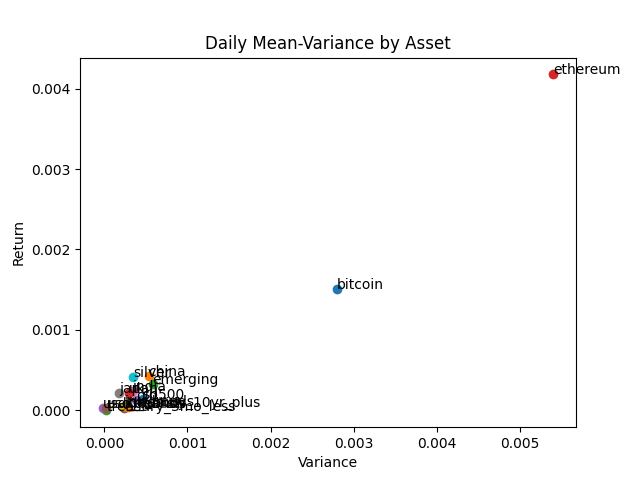
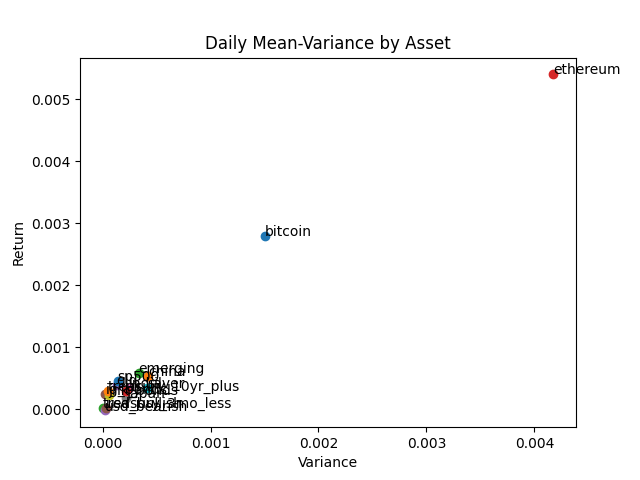
correct individual asset plot axes, find 2,3,5 and all assets portfolio with highest sharpe ratio and generate report

diff --git a/ranker.py b/ranker.py
@@ -3,6 +3,9 @@ import os
 import glob
 import numpy as np
 import matplotlib.pyplot as plt
+from functools import reduce
+import scipy.optimize as sco
+import itertools
 
 data_path = os.getcwd()+"/data"
 if os.path.exists(data_path) :   
@@ -29,7 +32,7 @@ sr_map = {}
 # risk-free rate assumed to be zero
 for asset_name in asset_names:
 	daily_ret = daily_ret_map[asset_name]
-	annual_sr = np.mean(daily_ret)/np.std(daily_ret)*(252**.5)
+	annual_sr = np.mean(daily_ret)/np.std(daily_ret)*np.sqrt(252)
 	sr_map[asset_name] = annual_sr
 
 print("Assets ranked by Sharpe Ratio from lowest to highest")
@@ -42,9 +45,84 @@ for asset_name in asset_names:
 	daily_ret = daily_ret_map[asset_name]
 	mean_ret = np.mean(daily_ret)
 	var_ret = np.var(daily_ret)
-	ax.scatter(mean_ret, var_ret)
-	ax.annotate(asset_name, (mean_ret, var_ret))
+	ax.scatter(var_ret, mean_ret)
+	ax.annotate(asset_name, (var_ret, mean_ret))
 plt.xlabel("Variance")
 plt.ylabel("Return")
 plt.title("Daily Mean-Variance by Asset")
 plt.show()
+
+df_from_each_file = []
+file_names = list(glob.iglob('*.csv'))
+num_assets = len(file_names)
+for file_name in file_names:
+	df = pd.read_csv(file_name)
+	asset_name = file_name[:-4]
+	df = df.rename({'Adj Close': asset_name}, axis=1)
+	df_from_each_file.append(df)
+df_full = reduce(lambda x, y: pd.merge(x, y, on = 'Date'), df_from_each_file)
+df_full = df_full.set_index('Date')
+df_full = df_full.pct_change().dropna()
+
+def neg_sharpe_ratio(weights, mean_returns, cov_matrix):
+	return -np.dot(weights, mean_returns)/np.sqrt(np.dot(weights.T, np.dot(cov_matrix, weights)))
+
+def plot_portfolios(num_in_set, num_assets, df_full):
+	all_sets = list(itertools.combinations(range(num_assets), num_in_set))
+	max_sr = -1.
+	max_sr_ind = []
+	max_sr_weights = []
+	max_sr_plt_index = []
+	opt_vars = []
+	opt_rets = []
+	for idx, ind_set in enumerate(all_sets):
+		df_set = df_full[df_full.columns[list(ind_set)]]
+		mean_returns = df_set.mean()
+		cov_matrix = df_set.cov()
+		args = (mean_returns, cov_matrix)
+		constraints = ({'type': 'eq', 'fun': lambda x: np.sum(x) - 1})
+		bound = (0.0,1.0)
+		bounds = tuple(bound for asset in range(num_in_set))
+		result = sco.minimize(neg_sharpe_ratio, num_in_set*[1./num_in_set,], args=args,
+			method='SLSQP', bounds=bounds, constraints=constraints)
+
+		opt_weights = result.x
+		portfolio_var = np.dot(opt_weights.T, np.dot(cov_matrix, opt_weights))
+		portfolio_ret = np.dot(opt_weights, mean_returns)
+		annual_sr = portfolio_ret/np.sqrt(portfolio_var)*np.sqrt(252)
+		opt_vars.append(portfolio_var)
+		opt_rets.append(portfolio_ret)
+		if annual_sr > max_sr:
+			max_sr = annual_sr
+			max_sr_ind = list(ind_set)
+			max_sr_weights = opt_weights
+			max_sr_plt_index = idx
+
+	highlight_x = opt_vars[max_sr_plt_index]
+	highlight_y = opt_rets[max_sr_plt_index]
+	highlight_names_str = ", ".join(df_full.columns[max_sr_ind].values)
+	max_sr_weights_str = ", ".join([f'{elem:.3%}' for elem in max_sr_weights])
+	print()
+	print(f"{num_in_set}-Asset Portfolio with Maximum Sharpe Ratio")
+	print(f"Asset Names:\t{highlight_names_str}".expandtabs(25))
+	print(f"Weights:\t{max_sr_weights_str}".expandtabs(25))
+	print(f"Daily Variance:\t{highlight_x:.3e}".expandtabs(25))
+	print(f"Daily Return:\t{highlight_y:.3e}".expandtabs(25))
+	print(f"Annual Sharpe Ratio:\t{round(max_sr,3)}".expandtabs(25))
+	
+	if num_in_set < num_assets:
+		plt.scatter(opt_vars, opt_rets)
+		plt.plot(highlight_x, highlight_y, 'ro')
+		plt.xlabel("Variance")
+		plt.ylabel("Return")
+		plt.title(f"Best Sharpe Ratio {num_in_set}-Asset Portfolios")
+		plt.show()
+
+num_in_set = 2
+plot_portfolios(num_in_set, num_assets, df_full)
+num_in_set = 3
+plot_portfolios(num_in_set, num_assets, df_full)
+num_in_set = 5
+plot_portfolios(num_in_set, num_assets, df_full)
+num_in_set = num_assets
+plot_portfolios(num_in_set, num_assets, df_full)
